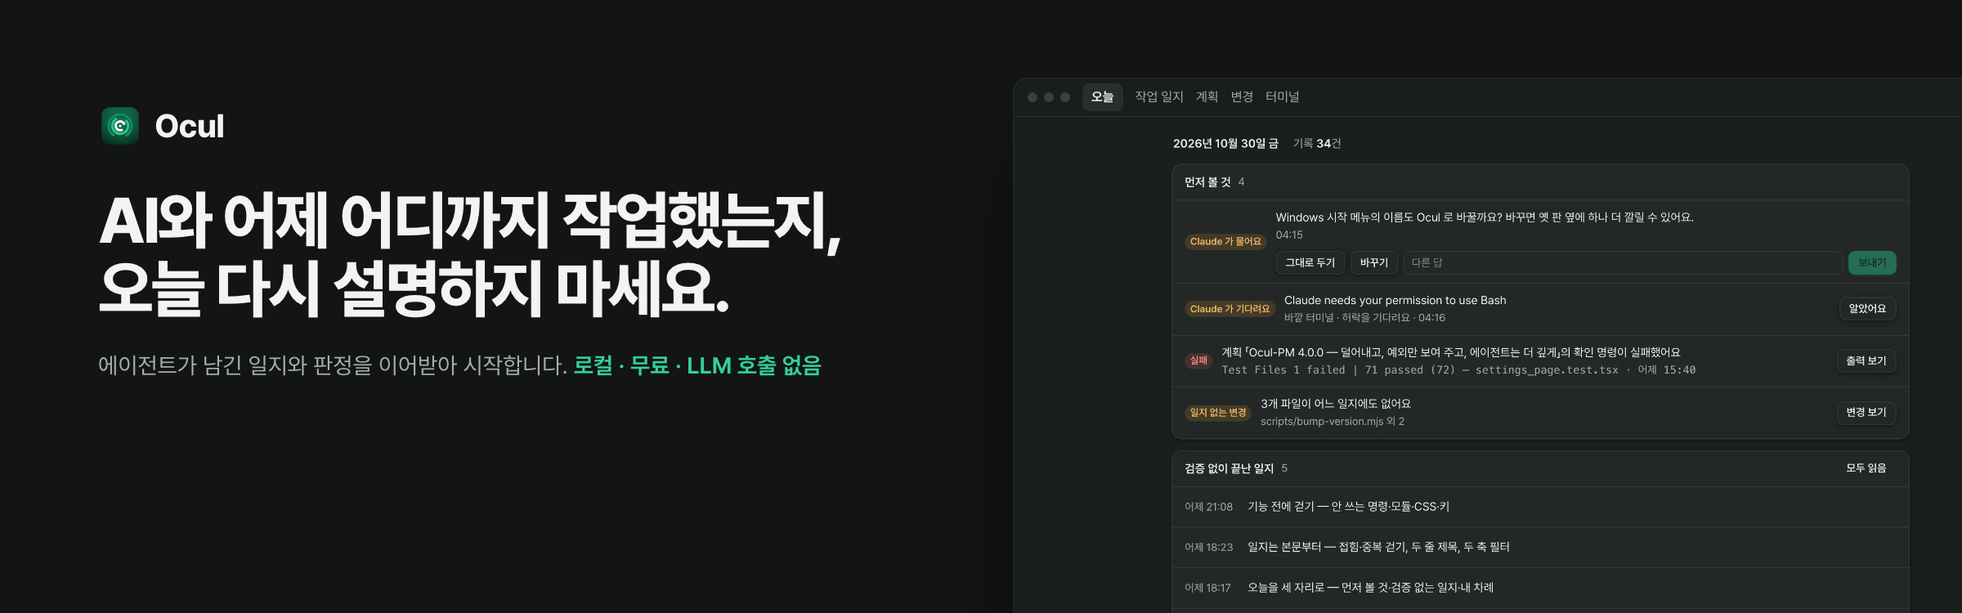
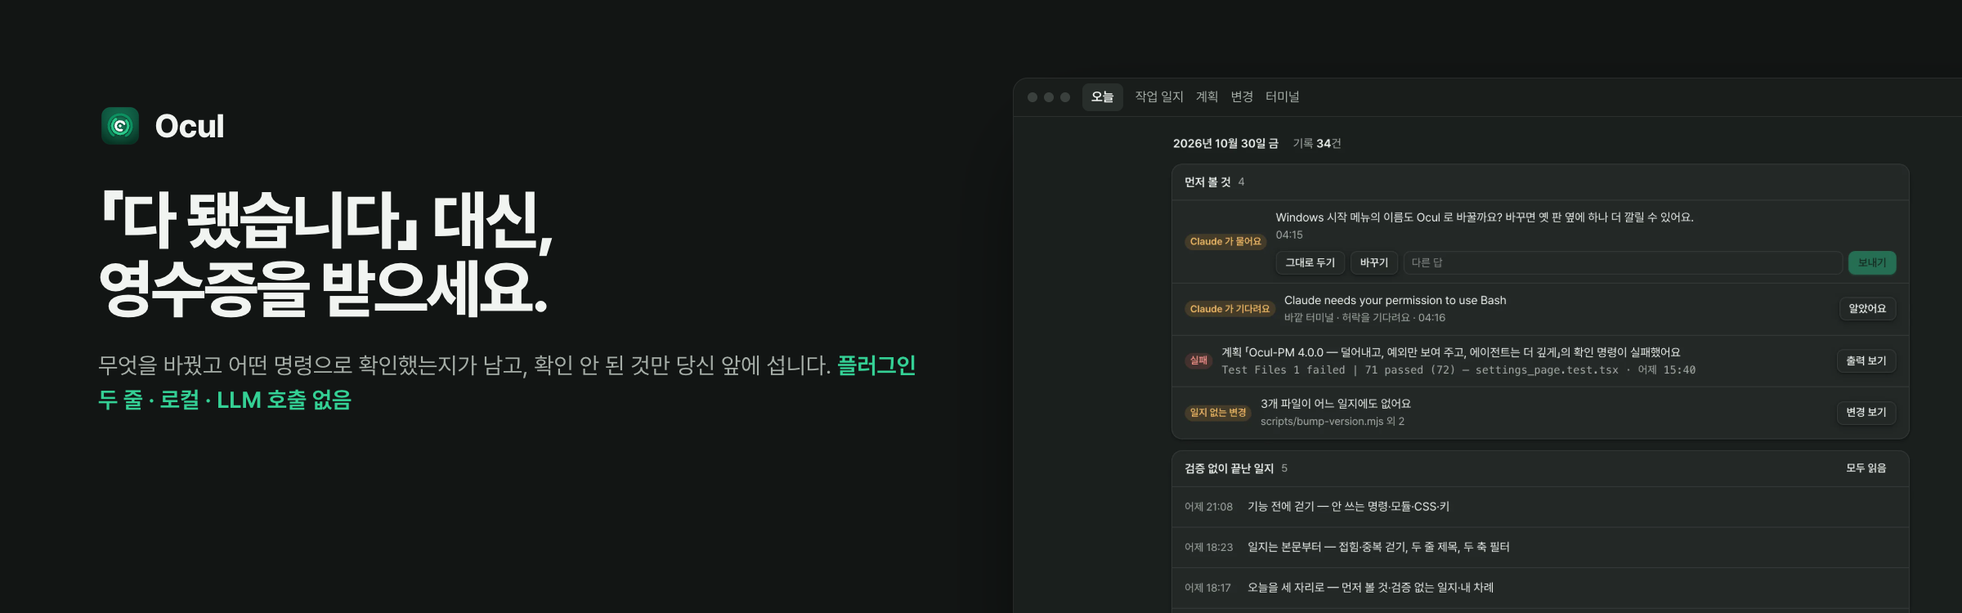
docs(landing): 첫 문장을 영수증으로, 첫 동작은 플러그인 두 줄
사용자 결정 11-02 (계획 direction-20261102): 「AI 기억」 자리를 떠나
「「다 됐습니다」 대신, 영수증을 받으세요.」 로. 히어로 · 마지막 칸의 주 동작은
플러그인 두 줄 복사, 내려받기는 보조. 배너 · og · social 이미지 다시 찍음.

Changed region(s): [[0.0312, 0.3067, 0.4375, 0.5213], [0.0312, 0.5827, 0.4688, 0.6747]]

diff --git a/landing/index.html b/landing/index.html
@@ -3,8 +3,8 @@
 <head>
 <meta charset="utf-8" />
 <meta name="viewport" content="width=device-width, initial-scale=1" />
-<title>Ocul — AI와 어제 어디까지 작업했는지, 오늘 다시 설명하지 마세요 · 코딩 에이전트용 AI PM</title>
-<meta name="description" content="AI와 어제 어디까지 작업했는지, 오늘 다시 설명하지 마세요. Claude Code 가 작업을 끝내면 Ocul(AI PM)에 일지가 남고, 다음 대화는 그 일지와 완료 조건 · 확인 명령 · 마지막 판정에서 이어서 시작합니다. 앱은 사람이 볼 것만 — 판정 실패 · 증거 없는 일지 · 기록 없는 변경 — 펼칩니다. Codex · Cursor · Gemini CLI 도 규칙 파일로 기록합니다. 앱은 LLM 을 부르지 않습니다. 로컬-우선 · 계정 없음 · 텔레메트리 없음." />
+<title>Ocul — 「다 됐습니다」 대신, 영수증을 받으세요 · 코딩 에이전트의 작업 영수증</title>
+<meta name="description" content="「다 됐습니다」 대신, 영수증을 받으세요. 코딩 에이전트(Claude Code · Codex · Cursor · Gemini CLI)가 일을 끝낼 때마다 무엇을 바꿨고 어떤 명령으로 확인했는지가 프로젝트 폴더에 마크다운 영수증으로 남습니다. Ocul 은 그중 확인 안 된 것만 펼칩니다 — 실패한 확인 명령 · 명령 증거 없는 일지 · 어느 일지에도 없는 변경. Claude Code 플러그인 두 줄로 시작하고, 화면으로 보고 싶으면 데스크톱 앱을 더합니다. 앱은 LLM 을 부르지 않고, 계정 · 서버 · 텔레메트리가 없습니다." />
 <meta name="keywords" content="AI PM, AI 프로젝트 매니저, AI project manager, ai pm tool, Ocul, Ocul-PM, 코딩 에이전트, AI 코딩 에이전트, AI coding agent, coding agent manager, Claude Code, Codex CLI, Cursor, Gemini CLI, Windsurf, GitHub Copilot, aider, Cline, Zed, Antigravity, 작업 일지, 개발 일지, dev journal, agent work log, 코드 변경 추적, 코드 변경 일지, AI 페어 프로그래밍 기록, vibe coding 관리, Claude Code 작업 기록, Cursor 변경 추적, 확인 명령, 판정, 완료 조건, Claude Code 플러그인, AI 개발 도구, 로컬 우선, local-first, macOS 개발 도구, 개발 생산성, English UI, 영어 지원" />
 <meta name="author" content="Ocul" />
 <meta name="robots" content="index, follow, max-image-preview:large, max-snippet:-1" />
@@ -20,8 +20,8 @@
 <meta property="og:locale" content="ko_KR" />
 <meta property="og:locale:alternate" content="en_US" />
 <meta property="og:url" content="https://oculpm.com/" />
-<meta property="og:title" content="Ocul — AI와 어제 어디까지 작업했는지, 오늘 다시 설명하지 마세요" />
-<meta property="og:description" content="Claude Code 가 작업을 끝내면 일지가 남고, 다음 대화는 그 일지에서 이어서 시작합니다. 사람이 볼 것만 펼치고, 판정은 확인 명령의 결과 끝 줄로. 로컬-우선 · 계정 없음 · 텔레메트리 없음." />
+<meta property="og:title" content="Ocul — 「다 됐습니다」 대신, 영수증을 받으세요" />
+<meta property="og:description" content="에이전트가 일을 끝낼 때마다 무엇을 바꿨고 어떤 명령으로 확인했는지가 남습니다. 확인 안 된 것만 당신 앞에 섭니다. 플러그인 두 줄 · 로컬 · 계정 없음." />
 <meta property="og:image" content="https://oculpm.com/og.png" />
 <meta property="og:image:width" content="1200" />
 <meta property="og:image:height" content="630" />
@@ -29,8 +29,8 @@
 
 <!-- Twitter -->
 <meta name="twitter:card" content="summary_large_image" />
-<meta name="twitter:title" content="Ocul — AI와 어제 어디까지 작업했는지, 오늘 다시 설명하지 마세요" />
-<meta name="twitter:description" content="Claude Code 가 작업을 끝내면 일지가 남고, 다음 대화는 그 일지에서 이어서 시작합니다. 로컬-우선 · macOS 네이티브." />
+<meta name="twitter:title" content="Ocul — 「다 됐습니다」 대신, 영수증을 받으세요" />
+<meta name="twitter:description" content="에이전트가 일을 끝낼 때마다 무엇을 바꿨고 어떤 명령으로 확인했는지가 남습니다. 확인 안 된 것만 당신 앞에 섭니다. 플러그인 두 줄 · 로컬 · 계정 없음." />
 <meta name="twitter:image" content="https://oculpm.com/og.png" />
 
 <link rel="icon" href="icon.svg" />
@@ -49,7 +49,7 @@
   "url": "https://oculpm.com/",
   "image": "https://oculpm.com/og.png",
   "softwareVersion": "4.3.0",
-  "description": "AI와 어제 어디까지 작업했는지, 오늘 다시 설명하지 마세요. 매일 AI 코딩 에이전트(Claude Code · Codex · Cursor · Gemini CLI 등)로 개발하는 사람을 위한 로컬-우선 AI 프로젝트 매니저 — 에이전트가 작업을 끝내면 일지가 남고, 다음 대화는 그 일지와 남은 계획을 시작 컨텍스트로 이어받습니다. 앱은 사람이 볼 것(판정 실패 · 증거 없는 일지 · 기록 없는 변경)만 펼치고, 판정은 확인 명령의 결과 끝 줄로 읽습니다. 앱은 LLM 을 부르지 않습니다. Claude Code 플러그인 두 줄 설치 지원.",
+  "description": "「다 됐습니다」 대신, 영수증을 받으세요. 코딩 에이전트(Claude Code · Codex · Cursor · Gemini CLI)가 일을 끝낼 때마다 무엇을 바꿨고 어떤 명령으로 확인했는지가 프로젝트 폴더에 마크다운 영수증으로 남습니다. Ocul 은 그중 확인 안 된 것만 펼칩니다 — 실패한 확인 명령 · 명령 증거 없는 일지 · 어느 일지에도 없는 변경. Claude Code 플러그인 두 줄로 시작하고, 화면으로 보고 싶으면 데스크톱 앱을 더합니다. 앱은 LLM 을 부르지 않고, 계정 · 서버 · 텔레메트리가 없습니다.",
   "offers": { "@type": "Offer", "price": "0", "priceCurrency": "USD" },
   "featureList": [
     "다섯 화면 — 오늘 · 작업 일지 · 계획 · 변경 · 터미널, 그리고 설정과 프로젝트가 없을 때의 시작 창. 원칙은 「예외만 보여 준다」: 화면의 크기는 에이전트가 한 양이 아니라 사람이 볼 것에 비례하고, 하루 3건이든 60건이든 모드 없이 같은 화면입니다",
@@ -237,21 +237,21 @@
     </nav>
     <span class="nav-spacer"></span>
     <a class="nav-lang" href="/en" hreflang="en">English</a>
-    <a class="btn primary nav-cta" href="https://github.com/bunhine0452/Ocul-PM/releases/latest" target="_blank" rel="noreferrer">내려받기</a>
+    <a class="btn nav-cta" href="https://github.com/bunhine0452/Ocul-PM/releases/latest" target="_blank" rel="noreferrer">내려받기</a>
   </div>
 </header>
 
 <main id="main">
 <section class="hero" aria-labelledby="hero-h">
   <div class="wrap">
-    <h1 id="hero-h">AI와 어제 어디까지 작업했는지, 오늘 다시 설명하지 마세요.</h1>
-    <p class="lede">에이전트가 일을 끝낼 때마다 <b>무엇을 했고 무엇으로 확인했는지</b>가 일지로 남고, 다음 대화는 그걸 이어받아 시작합니다. Ocul 은 그중 사람이 볼 것만 펼칩니다.</p>
+    <h1 id="hero-h">「다 됐습니다」 대신, 영수증을 받으세요.</h1>
+    <p class="lede">에이전트가 일을 끝낼 때마다 <b>무엇을 바꿨고 어떤 명령으로 확인했는지</b>가 남습니다. 확인 안 된 것만 당신 앞에 섭니다.</p>
     <div class="ctas">
-      <a class="btn primary" href="https://github.com/bunhine0452/Ocul-PM/releases/latest" target="_blank" rel="noreferrer">
+      <button class="cmd two is-primary" type="button" data-copy="/plugin marketplace add bunhine0452/Ocul-PM&#10;/plugin install oculpm@oculpm" aria-label="Claude Code 플러그인 설치 명령 두 줄 복사"><code><span>/plugin marketplace add bunhine0452/Ocul-PM</span><span>/plugin install oculpm@oculpm</span></code><span class="copy">두 줄 복사</span></button>
+      <a class="btn" href="https://github.com/bunhine0452/Ocul-PM/releases/latest" target="_blank" rel="noreferrer">
         <svg viewBox="0 0 24 24" fill="none" stroke="currentColor" stroke-width="2" stroke-linecap="round" stroke-linejoin="round" aria-hidden="true"><path d="M12 15V3"/><path d="m7 10 5 5 5-5"/><path d="M21 15v4a2 2 0 0 1-2 2H5a2 2 0 0 1-2-2v-4"/></svg>
         <span class="lg">v4.3.0 받기</span><span class="sub">macOS · 무료</span>
       </a>
-      <button class="cmd two" type="button" data-copy="/plugin marketplace add bunhine0452/Ocul-PM&#10;/plugin install oculpm@oculpm" aria-label="Claude Code 플러그인 설치 명령 두 줄 복사"><code><span>/plugin marketplace add bunhine0452/Ocul-PM</span><span>/plugin install oculpm@oculpm</span></code><span class="copy">두 줄 복사</span></button>
     </div>
     <div class="subrow">
       <p class="os" data-dl-os>Windows · Linux 는 베타
@@ -461,13 +461,13 @@ AGENTS.md     <span class="dim">에이전트가 읽는 규칙 파일 한 장</sp
 <section class="close" id="download" aria-labelledby="close-h">
   <div class="wrap">
     <h2 id="close-h">시작하는 데 필요한 것은, 없습니다.</h2>
-    <p class="intro">가입도, 설정도, 비용도 없습니다. 내려받으면 그게 전부입니다.</p>
+    <p class="intro">가입도, 설정도, 비용도 없습니다. Claude Code 에 두 줄을 붙여 넣으면 시작이고, 화면으로 보고 싶으면 앱을 내려받으세요.</p>
     <div class="ctas">
-      <a class="btn primary" href="https://github.com/bunhine0452/Ocul-PM/releases/latest" target="_blank" rel="noreferrer">
+      <button class="cmd two is-primary" type="button" data-copy="/plugin marketplace add bunhine0452/Ocul-PM&#10;/plugin install oculpm@oculpm" aria-label="Claude Code 플러그인 설치 명령 두 줄 복사"><code><span>/plugin marketplace add bunhine0452/Ocul-PM</span><span>/plugin install oculpm@oculpm</span></code><span class="copy">두 줄 복사</span></button>
+      <a class="btn" href="https://github.com/bunhine0452/Ocul-PM/releases/latest" target="_blank" rel="noreferrer">
         <svg viewBox="0 0 24 24" fill="none" stroke="currentColor" stroke-width="2" stroke-linecap="round" stroke-linejoin="round" aria-hidden="true"><path d="M12 15V3"/><path d="m7 10 5 5 5-5"/><path d="M21 15v4a2 2 0 0 1-2 2H5a2 2 0 0 1-2-2v-4"/></svg>
         <span class="lg">v4.3.0 받기</span><span class="sub">무료 · 자동 업데이트</span>
       </a>
-      <a class="btn" href="/plugin">플러그인으로 시작</a>
       <a class="btn" href="mailto:bunhine0452@gmail.com?subject=%5BOcul-PM%5D%20Enterprise%20%2F%20Partnership">기업 도입 · 제휴 문의</a>
     </div>
     <p class="os" data-dl-os>Windows · Linux 는 베타

diff --git a/landing/en/index.html b/landing/en/index.html
@@ -3,8 +3,8 @@
 <head>
 <meta charset="utf-8" />
 <meta name="viewport" content="width=device-width, initial-scale=1" />
-<title>Ocul — Stop re-explaining to your AI where you left off yesterday. · AI project manager for coding agents</title>
-<meta name="description" content="Stop re-explaining to your AI where you left off yesterday. When Claude Code finishes a unit of work, a journal entry lands in Ocul and the next conversation starts from it. The app unfolds only what a person must see — failed verdicts, entries without evidence, unrecorded changes — and reads the verdict from a check command's last line of output. Codex, Cursor and Gemini CLI record through the rules file. The app calls no LLM. Local-first · no account · no telemetry." />
+<title>Ocul — Not “all done” — a receipt. · Work receipts for coding agents</title>
+<meta name="description" content="Not “all done” — a receipt. Every time a coding agent (Claude Code, Codex, Cursor, Gemini CLI) finishes, what it changed and the command that checked it are kept in your project folder as a Markdown receipt. Ocul unfolds only what isn't proven — failed check commands, entries without command evidence, changes no entry mentions. Start with two lines of the Claude Code plugin, and add the desktop app if you want to see it on screen. The app calls no LLM, and there is no account, server or telemetry." />
 <meta name="keywords" content="AI PM, AI project manager, ai pm tool, Ocul, Ocul-PM, coding agent, AI coding agent, coding agent manager, Claude Code, Codex CLI, Cursor, Gemini CLI, Windsurf, GitHub Copilot, aider, Cline, Zed, Antigravity, dev journal, agent work log, work journal, code change tracking, AI pair programming record, vibe coding management, Claude Code work log, Cursor change tracking, check command, verdict, done condition, Claude Code plugin, AI developer tools, local-first, macOS developer tools, developer productivity" />
 <meta name="author" content="Ocul" />
 <meta name="robots" content="index, follow, max-image-preview:large, max-snippet:-1" />
@@ -20,8 +20,8 @@
 <meta property="og:locale" content="en_US" />
 <meta property="og:locale:alternate" content="ko_KR" />
 <meta property="og:url" content="https://oculpm.com/en" />
-<meta property="og:title" content="Ocul — Stop re-explaining to your AI where you left off yesterday." />
-<meta property="og:description" content="When Claude Code finishes a unit of work, a journal entry is left behind and the next conversation starts from it. Only what you must see unfolds, and the verdict is a check command's last line. Local-first · no account · no telemetry." />
+<meta property="og:title" content="Ocul — Not “all done” — a receipt." />
+<meta property="og:description" content="Every time your agent finishes, what it changed and the command that checked it are on record. Only what isn't proven comes to you. Two-line plugin · local · no account." />
 <meta property="og:image" content="https://oculpm.com/og-en.png" />
 <meta property="og:image:width" content="1200" />
 <meta property="og:image:height" content="630" />
@@ -29,8 +29,8 @@
 
 <!-- Twitter -->
 <meta name="twitter:card" content="summary_large_image" />
-<meta name="twitter:title" content="Ocul — Stop re-explaining to your AI where you left off yesterday." />
-<meta name="twitter:description" content="When Claude Code finishes a unit of work, a journal entry is left behind and the next conversation starts from it. Local-first · native macOS." />
+<meta name="twitter:title" content="Ocul — Not “all done” — a receipt." />
+<meta name="twitter:description" content="Every time your agent finishes, what it changed and the command that checked it are on record. Only what isn't proven comes to you. Two-line plugin · local · no account." />
 <meta name="twitter:image" content="https://oculpm.com/og-en.png" />
 
 <link rel="icon" href="/icon.svg" />
@@ -50,7 +50,7 @@
   "image": "https://oculpm.com/og-en.png",
   "softwareVersion": "4.3.0",
   "inLanguage": "en",
-  "description": "Stop re-explaining to your AI where you left off yesterday. A local-first AI project manager for people who build with AI coding agents (Claude Code, Codex, Cursor, Gemini CLI and friends) every day — when the agent finishes a unit of work a journal entry is left behind, and the next conversation receives those entries and the remaining plan items as its starting context. The app unfolds only what a person must see (failed verdicts · entries without evidence · unrecorded changes) and reads the verdict from a check command's last line of output. The app calls no LLM. Two-line install as a Claude Code plugin.",
+  "description": "Not “all done” — a receipt. Every time a coding agent (Claude Code, Codex, Cursor, Gemini CLI) finishes, what it changed and the command that checked it are kept in your project folder as a Markdown receipt. Ocul unfolds only what isn't proven — failed check commands, entries without command evidence, changes no entry mentions. Start with two lines of the Claude Code plugin, and add the desktop app if you want to see it on screen. The app calls no LLM, and there is no account, server or telemetry.",
   "offers": { "@type": "Offer", "price": "0", "priceCurrency": "USD" },
   "featureList": [
     "Five screens — Today · Work Journal · Plan · Diff · Terminal, plus Settings and a start window when no project is open. One principle, show only the exceptions: the screen grows with what a person must see, not with how much the agent did, so 3 entries a day or 60 use the same screen with no modes",
@@ -239,21 +239,21 @@
     </nav>
     <span class="nav-spacer"></span>
     <a class="nav-lang" href="/" hreflang="ko">한국어</a>
-    <a class="btn primary nav-cta" href="https://github.com/bunhine0452/Ocul-PM/releases/latest" target="_blank" rel="noreferrer">Download</a>
+    <a class="btn nav-cta" href="https://github.com/bunhine0452/Ocul-PM/releases/latest" target="_blank" rel="noreferrer">Download</a>
   </div>
 </header>
 
 <main id="main">
 <section class="hero" aria-labelledby="hero-h">
   <div class="wrap">
-    <h1 id="hero-h">Stop re-explaining to your AI where you left off yesterday.</h1>
-    <p class="lede">When your agent finishes, <b>what it did and how it checked</b> lands in a journal, and tomorrow's conversation starts from it.</p>
+    <h1 id="hero-h">Not “all done” — a receipt.</h1>
+    <p class="lede">Every time your agent finishes, <b>what it changed and the command that checked it</b> are on record. Only what isn't proven comes to you.</p>
     <div class="ctas">
-      <a class="btn primary" href="https://github.com/bunhine0452/Ocul-PM/releases/latest" target="_blank" rel="noreferrer">
+      <button class="cmd two is-primary" type="button" data-copy="/plugin marketplace add bunhine0452/Ocul-PM&#10;/plugin install oculpm@oculpm" aria-label="Copy the two Claude Code plugin install lines"><code><span>/plugin marketplace add bunhine0452/Ocul-PM</span><span>/plugin install oculpm@oculpm</span></code><span class="copy">Copy both</span></button>
+      <a class="btn" href="https://github.com/bunhine0452/Ocul-PM/releases/latest" target="_blank" rel="noreferrer">
         <svg viewBox="0 0 24 24" fill="none" stroke="currentColor" stroke-width="2" stroke-linecap="round" stroke-linejoin="round" aria-hidden="true"><path d="M12 15V3"/><path d="m7 10 5 5 5-5"/><path d="M21 15v4a2 2 0 0 1-2 2H5a2 2 0 0 1-2-2v-4"/></svg>
         <span class="lg">Get v4.3.0</span><span class="sub">macOS · free</span>
       </a>
-      <button class="cmd two" type="button" data-copy="/plugin marketplace add bunhine0452/Ocul-PM&#10;/plugin install oculpm@oculpm" aria-label="Copy the two Claude Code plugin install lines"><code><span>/plugin marketplace add bunhine0452/Ocul-PM</span><span>/plugin install oculpm@oculpm</span></code><span class="copy">Copy both</span></button>
     </div>
     <div class="subrow">
       <p class="os" data-dl-os>Windows and Linux are in beta
@@ -463,13 +463,13 @@ AGENTS.md     <span class="dim">the one rules file agents read</span></pre>
 <section class="close" id="download" aria-labelledby="close-h">
   <div class="wrap">
     <h2 id="close-h">Nothing is required to start.</h2>
-    <p class="intro">No sign-up, no setup, no fee. You download it, and that is the whole thing.</p>
+    <p class="intro">No sign-up, no setup, no fee. Paste two lines into Claude Code to start, and download the app if you want to see it on screen.</p>
     <div class="ctas">
-      <a class="btn primary" href="https://github.com/bunhine0452/Ocul-PM/releases/latest" target="_blank" rel="noreferrer">
+      <button class="cmd two is-primary" type="button" data-copy="/plugin marketplace add bunhine0452/Ocul-PM&#10;/plugin install oculpm@oculpm" aria-label="Copy the two Claude Code plugin install lines"><code><span>/plugin marketplace add bunhine0452/Ocul-PM</span><span>/plugin install oculpm@oculpm</span></code><span class="copy">Copy both</span></button>
+      <a class="btn" href="https://github.com/bunhine0452/Ocul-PM/releases/latest" target="_blank" rel="noreferrer">
         <svg viewBox="0 0 24 24" fill="none" stroke="currentColor" stroke-width="2" stroke-linecap="round" stroke-linejoin="round" aria-hidden="true"><path d="M12 15V3"/><path d="m7 10 5 5 5-5"/><path d="M21 15v4a2 2 0 0 1-2 2H5a2 2 0 0 1-2-2v-4"/></svg>
         <span class="lg">Get v4.3.0</span><span class="sub">free · auto-updates</span>
       </a>
-      <a class="btn" href="/en/plugin">Start with the plugin</a>
       <a class="btn" href="mailto:bunhine0452@gmail.com?subject=%5BOcul-PM%5D%20Enterprise%20%2F%20Partnership">Teams &amp; partnerships</a>
     </div>
     <p class="os" data-dl-os>Windows and Linux are in beta

diff --git a/scripts/landing-images/banner-ko.html b/scripts/landing-images/banner-ko.html
@@ -18,6 +18,6 @@ box-shadow:0 0 0 1px rgba(255,255,255,.10),0 50px 112px -37px rgba(0,0,0,.8)}
 .bar span{font-size:16px;color:#a6aea8;margin-left:7px}.bar span.on{color:#f1f4f1;font-weight:650;background:#282e2b;padding:3px 11px;border-radius:8px}
 .win img{display:block;width:100%}
 </style></head><body><div class="c">
-<div class="txt"><div class="mark"><img src="/icon.svg">Ocul</div><h1>AI와 어제 어디까지 작업했는지, 오늘 다시 설명하지 마세요.</h1><p>에이전트가 남긴 일지와 판정을 이어받아 시작합니다. <b>로컬 · 무료 · LLM 호출 없음</b></p></div>
+<div class="txt"><div class="mark"><img src="/icon.svg">Ocul</div><h1>「다 됐습니다」 대신, 영수증을 받으세요.</h1><p>무엇을 바꿨고 어떤 명령으로 확인했는지가 남고, 확인 안 된 것만 당신 앞에 섭니다. <b>플러그인 두 줄 · 로컬 · LLM 호출 없음</b></p></div>
 <div class="win"><div class="bar"><i></i><i></i><i></i><span class="on">오늘</span><span>작업 일지</span><span>계획</span><span>변경</span><span>터미널</span></div><img src="/shots/v4/ko/today.webp"></div>
 </div></body></html>

diff --git a/scripts/landing-images/og-ko.html b/scripts/landing-images/og-ko.html
@@ -18,6 +18,6 @@ box-shadow:0 0 0 1px rgba(255,255,255,.10),0 40px 90px -30px rgba(0,0,0,.8)}
 .bar span{font-size:13px;color:#a6aea8;margin-left:6px}.bar span.on{color:#f1f4f1;font-weight:650;background:#282e2b;padding:3px 9px;border-radius:7px}
 .win img{display:block;width:100%}
 </style></head><body><div class="c">
-<div class="txt"><div class="mark"><img src="/icon.svg">Ocul</div><h1>AI와 어제 어디까지 작업했는지, 오늘 다시 설명하지 마세요.</h1><p>일지와 판정을 이어받아 시작합니다.<br><b>로컬 · 무료 · LLM 호출 없음</b></p></div>
+<div class="txt"><div class="mark"><img src="/icon.svg">Ocul</div><h1>「다 됐습니다」 대신, 영수증을 받으세요.</h1><p>무엇을 바꿨고 무엇으로 확인했는지가 남습니다.<br><b>플러그인 두 줄 · 로컬 · LLM 호출 없음</b></p></div>
 <div class="win"><div class="bar"><i></i><i></i><i></i><span class="on">오늘</span><span>작업 일지</span><span>계획</span><span>변경</span><span>터미널</span></div><img src="/shots/v4/ko/today.webp"></div>
 </div></body></html>

diff --git a/scripts/landing-images/social.html b/scripts/landing-images/social.html
@@ -18,6 +18,6 @@ box-shadow:0 0 0 1px rgba(255,255,255,.10),0 40px 90px -30px rgba(0,0,0,.8)}
 .bar span{font-size:13px;color:#a6aea8;margin-left:6px}.bar span.on{color:#f1f4f1;font-weight:650;background:#282e2b;padding:3px 9px;border-radius:7px}
 .win img{display:block;width:100%}
 </style></head><body><div class="c">
-<div class="txt"><div class="mark"><img src="/icon.svg">Ocul</div><h1>AI와 어제 어디까지 작업했는지, 오늘 다시 설명하지 마세요.</h1><p>일지와 판정을 이어받아 시작합니다.<br><b>로컬 · 무료 · LLM 호출 없음</b></p></div>
+<div class="txt"><div class="mark"><img src="/icon.svg">Ocul</div><h1>「다 됐습니다」 대신, 영수증을 받으세요.</h1><p>무엇을 바꿨고 무엇으로 확인했는지가 남습니다.<br><b>플러그인 두 줄 · 로컬 · LLM 호출 없음</b></p></div>
 <div class="win"><div class="bar"><i></i><i></i><i></i><span class="on">오늘</span><span>작업 일지</span><span>계획</span><span>변경</span><span>터미널</span></div><img src="/shots/v4/ko/today.webp"></div>
 </div></body></html>

diff --git a/scripts/landing-images/banner-en.html b/scripts/landing-images/banner-en.html
@@ -18,6 +18,6 @@ box-shadow:0 0 0 1px rgba(255,255,255,.10),0 50px 112px -37px rgba(0,0,0,.8)}
 .bar span{font-size:16px;color:#a6aea8;margin-left:7px}.bar span.on{color:#f1f4f1;font-weight:650;background:#282e2b;padding:3px 11px;border-radius:8px}
 .win img{display:block;width:100%}
 </style></head><body><div class="c">
-<div class="txt"><div class="mark"><img src="/icon.svg">Ocul</div><h1>Stop re-explaining to your AI where you left off yesterday.</h1><p>The next conversation starts from the agent's journal and verdicts. <b>Local · free · no LLM calls</b></p></div>
+<div class="txt"><div class="mark"><img src="/icon.svg">Ocul</div><h1>Not “all done” — a receipt.</h1><p>What your agent changed and the command that checked it stay on record; only what isn't proven comes to you. <b>Two-line plugin · local · no LLM calls</b></p></div>
 <div class="win"><div class="bar"><i></i><i></i><i></i><span class="on">Today</span><span>Work Journal</span><span>Plan</span><span>Diff</span><span>Terminal</span></div><img src="/shots/v4/en/today.webp"></div>
 </div></body></html>

diff --git a/scripts/landing-images/og-en.html b/scripts/landing-images/og-en.html
@@ -18,6 +18,6 @@ box-shadow:0 0 0 1px rgba(255,255,255,.10),0 40px 90px -30px rgba(0,0,0,.8)}
 .bar span{font-size:13px;color:#a6aea8;margin-left:6px}.bar span.on{color:#f1f4f1;font-weight:650;background:#282e2b;padding:3px 9px;border-radius:7px}
 .win img{display:block;width:100%}
 </style></head><body><div class="c">
-<div class="txt"><div class="mark"><img src="/icon.svg">Ocul</div><h1>Stop re-explaining to your AI where you left off yesterday.</h1><p>The next session starts from the journal.<br><b>Local · free · no LLM calls</b></p></div>
+<div class="txt"><div class="mark"><img src="/icon.svg">Ocul</div><h1>Not “all done” — a receipt.</h1><p>What it changed and how it was checked, on record.<br><b>Two-line plugin · local · no LLM calls</b></p></div>
 <div class="win"><div class="bar"><i></i><i></i><i></i><span class="on">Today</span><span>Work Journal</span><span>Plan</span><span>Diff</span><span>Terminal</span></div><img src="/shots/v4/en/today.webp"></div>
 </div></body></html>

diff --git a/landing/home.css b/landing/home.css
@@ -110,6 +110,11 @@ html { scrollbar-color: #3a423e var(--ground); }
 .cmd.two code::before { content: none; }
 .cmd.two code span { overflow: hidden; text-overflow: ellipsis; white-space: nowrap; }
 .cmd.two code span::before { content: "$ "; color: var(--ink-2); }
+/* 첫 행동은 플러그인 두 줄 (11-02 결정) — 주 동작이라 테두리와 「복사」 표만 초록. 칸 자체는 명령 상자 그대로. */
+.cmd.is-primary { border-color: var(--accent); }
+.cmd.is-primary .copy { background: var(--accent); color: var(--on-accent); }
+.cmd.is-primary:hover .copy { background: var(--accent-strong); }
+.cmd.is-primary[data-copied] .copy { background: var(--accent-soft); color: var(--accent-text); }
 
 /* ── 윗줄 ─────────────────────────────────────────── */
 .nav { position: sticky; top: 0; z-index: 20; background: var(--ground); border-bottom: 1px solid var(--sep); }

diff --git a/README.md b/README.md
@@ -1,15 +1,15 @@
 <div align="center">
 
-<img src="landing/banner.png" alt="Ocul: AI와 어제 어디까지 작업했는지, 오늘 다시 설명하지 마세요. 오른쪽에 4.1 앱의 오늘 화면." width="100%" />
+<img src="landing/banner.png" alt="Ocul: 「다 됐습니다」 대신, 영수증을 받으세요. 오른쪽에 4.1 앱의 오늘 화면." width="100%" />
 
 <img src="landing/demo.gif" alt="Ocul 4.1 데모: 오늘 화면에서 Claude 의 질문에 답하면 터미널의 Claude 가 그 답을 받아 일지와 판정을 남기고, 작업 일지 · 계획 · 변경 화면이 이어진다" width="100%" />
 
 <sub>실제 4.1 화면입니다. 이 저장소의 일지로 채웠고, Claude 의 질문 한 줄만 데모입니다. 여러분의 터미널에서 돌려도 같은 기록이 남습니다.</sub>
 
-<h3>AI와 어제 어디까지 작업했는지, 오늘 다시 설명하지 마세요.</h3>
+<h3>「다 됐습니다」 대신, 영수증을 받으세요.</h3>
 
-<p>에이전트가 한 일을 사람이 <b>3분 안에 믿고, 다음을 결정</b>하게 하고, 에이전트는 어떤 일이든 <b>판정부터 깔고</b> 시작하게 합니다. 일지·diff·계획이 그 증거이고, 판정은 에이전트의 말이 아니라 확인 명령의 결과 끝 줄입니다.<br/>
-Claude Code · Codex · Cursor · Gemini CLI 와 함께 쓰는 로컬-우선 프로젝트 매니저 — 서버도 계정도 없고, 앱은 LLM 을 부르지 않습니다.</p>
+<p>코딩 에이전트가 일을 끝낼 때마다 <b>무엇을 바꿨고 어떤 명령으로 확인했는지</b>가 프로젝트 폴더에 마크다운으로 남습니다. Ocul 은 그중 <b>확인 안 된 것만</b> 당신 앞에 세웁니다 — 실패한 확인 명령, 명령 증거 없는 일지, 어느 일지에도 없는 변경.<br/>
+Claude Code 플러그인 두 줄로 시작하고, 화면으로 보고 싶으면 데스크톱 앱을 더합니다. Codex · Cursor · Gemini CLI 도 규칙 파일 한 장으로 기록합니다. 서버도 계정도 없고, 앱은 LLM 을 부르지 않습니다.</p>
 
 [![CI](https://github.com/bunhine0452/Ocul-PM/actions/workflows/ci.yml/badge.svg?branch=main)](https://github.com/bunhine0452/Ocul-PM/actions/workflows/ci.yml)
 [![Latest release](https://badgen.net/github/tag/bunhine0452/Ocul-PM?icon=github&label=download&color=12a06b)](https://github.com/bunhine0452/Ocul-PM/releases/latest)
@@ -31,9 +31,16 @@ Claude Code · Codex · Cursor · Gemini CLI 와 함께 쓰는 로컬-우선 프
 
 ---
 
-매일 AI 로 개발하면 아침마다 같은 일을 합니다. 새 대화를 열고, 어제 어디까지 했는지, 왜 그 파일을 건드렸는지, 무엇이 남았는지를 처음부터 다시 설명하는 일입니다. 대화가 끝나면 맥락도 같이 끝나기 때문입니다 — 코드는 남는데 맥락은 남지 않습니다.
+에이전트는 일을 끝내면 「다 됐습니다」라고 말합니다. 테스트가 정말 통과했는지, 어떤 파일을 왜 바꿨는지, 빠뜨린 것은 없는지는 그 말 안에 없습니다. 확인하려면 diff 와 로그를 처음부터 다시 읽어야 하고, 다음 날 새 대화에는 그 맥락마저 없습니다.
 
-Ocul 은 그 설명을 없앱니다. 프로젝트 폴더에 규칙 파일(`AGENTS.md`) 하나를 심으면 에이전트는 작업 하나를 끝낼 때마다 `.oculpm/journal/` 에 마크다운 일지를 남기고, 다음 대화는 그 일지와 남은 계획 — 완료 조건 · 확인 명령 · 마지막 판정 — 을 시작 컨텍스트로 받아 이어서 합니다. 앱은 그 기록에서 **사람이 볼 것만** 펼칩니다: 판정 실패, 명령 증거 없는 일지, 어느 일지에도 없는 변경, 막힌 항목, 사람 몫 결정. 증거가 선 일은 한 줄로 접힙니다. 원본이 전부 마크다운 파일이라 코드와 함께 커밋할 수 있고, 앱이 없어도 그냥 읽힙니다.
+```text
+/plugin marketplace add bunhine0452/Ocul-PM
+/plugin install oculpm@oculpm
+```
+
+Claude Code 에 이 두 줄이면 시작입니다(앱 없이). 기록을 화면으로 보고 싶으면 [앱을 내려받으세요](https://github.com/bunhine0452/Ocul-PM/releases/latest) — macOS, Windows · Linux 베타.
+
+Ocul 은 그 말 대신 영수증을 남깁니다. 프로젝트 폴더에 규칙 파일(`AGENTS.md`) 하나를 심으면 에이전트는 작업 하나를 끝낼 때마다 `.oculpm/journal/` 에 마크다운 일지를 남기고, 다음 대화는 그 일지와 남은 계획 — 완료 조건 · 확인 명령 · 마지막 판정 — 을 시작 컨텍스트로 받아 이어서 합니다. 앱은 그 기록에서 **사람이 볼 것만** 펼칩니다: 판정 실패, 명령 증거 없는 일지, 어느 일지에도 없는 변경, 막힌 항목, 사람 몫 결정. 증거가 선 일은 한 줄로 접힙니다. 원본이 전부 마크다운 파일이라 코드와 함께 커밋할 수 있고, 앱이 없어도 그냥 읽힙니다.
 
 서버는 없습니다. 데이터는 프로젝트의 `.oculpm/` 폴더와 로컬 SQLite 캐시에만 있고, **앱은 LLM 을 부르지 않으며 화면(웹뷰)은 바깥 호스트에 닿지 않습니다.** 기기를 떠나는 것은 여러분이 시작한 것뿐입니다 — 새 버전 확인과, 여러분이 누른 링크(OS 브라우저가 엽니다). 세어 볼 수 있는 전체 목록은 [oculpm.com/privacy](https://oculpm.com/privacy) 에 있고, 그 목록은 빌드가 지킵니다(`src-tauri/tests/egress_inventory.rs`).
 

diff --git a/.oculpm/journal/20261102/Chores/1902_chore_receipt-positioning-plugin-entry.md b/.oculpm/journal/20261102/Chores/1902_chore_receipt-positioning-plugin-entry.md
@@ -1,0 +1,75 @@
+---
+schema_version: 1
+type: chore
+slug: "receipt-positioning-plugin-entry"
+status: done
+difficulty: medium
+created_at: "2026-11-02T19:02:56+09:00"
+session_id: "20261102-001"
+agent:
+  id: "claude-code"
+  version: "Opus 5.5"
+  session: "f482aad9-ea44-4824-af3f-378db8a5a057"
+language: "ko"
+verified_by_user: false
+files_touched:
+  - path: "landing/index.html"
+    op: update
+  - path: "landing/en/index.html"
+    op: update
+  - path: "landing/home.css"
+    op: update
+  - path: "README.md"
+    op: update
+  - path: "README.en.md"
+    op: update
+  - path: "landing/banner.png"
+    op: update
+  - path: "landing/banner-en.png"
+    op: update
+  - path: "landing/og.png"
+    op: update
+  - path: "landing/og-en.png"
+    op: update
+  - path: "landing/social-preview.png"
+    op: update
+  - path: "scripts/landing-images/banner-ko.html"
+    op: update
+  - path: "scripts/landing-images/banner-en.html"
+    op: update
+  - path: "scripts/landing-images/og-ko.html"
+    op: update
+  - path: "scripts/landing-images/og-en.html"
+    op: update
+  - path: "scripts/landing-images/social.html"
+    op: update
+  - path: ".impeccable/surfaces/landing-index-html.md"
+    op: update
+  - path: "DESIGN.md"
+    op: update
+related: []
+tags:
+  - "랜딩"
+  - "landing"
+  - "readme"
+  - "positioning"
+  - "mcp-tool"
+---
+[x] 랜딩: 첫 문장을 영수증으로, 입구는 플러그인
+
+## 무엇을 했나
+외부 평가 뒤 사용자가 고른 결정 둘(계획 `direction-20261102` 의 `#position` · `#entry-plugin`)을 바깥 면에 옮겼다.
+- **첫 문장**: 「AI와 어제 어디까지 작업했는지, 오늘 다시 설명하지 마세요」(claude-mem 의 「기억」 자리)를 「「다 됐습니다」 대신, 영수증을 받으세요.」 / 「Not "all done" — a receipt.」로 바꿨다. 사용자가 세 안 중 골랐다.
+  - 바꾼 곳: 랜딩 ko/en 의 title · meta description · og · twitter · JSON-LD description · h1 · lede, README ko/en 의 머리 h3 · 소개 문단 · 배너 alt.
+- **입구**: 히어로와 마지막 칸의 주 동작을 플러그인 두 줄 복사(`.cmd.is-primary`: 초록 테 · 초록 「복사」 표)로 바꿨다. 내려받기는 보조 버튼으로, 윗줄 「내려받기」도 보조로 내렸다. 한 화면에 초록 채움은 하나라는 규칙 그대로다.
+  - README 소개 바로 아래에 플러그인 두 줄 블록과 「화면으로 보고 싶으면 앱」 한 줄을 넣었다.
+- **이미지**: `scripts/landing-images/*.html` 원본의 헤드라인을 고쳐 다시 찍었다. 배너 ko/en 2400×750, og ko/en 1200×630, social 1280×640.
+- **설계 기록**: 랜딩 surface brief 의 Action · FIRST VIEWPORT, DESIGN.md 의 Primary · Command copy 를 새 주 동작에 맞췄다.
+
+## 검증
+- 로컬 정적 서버 + CDP 로 랜딩 ko(1440) · en(1440) · ko 휴대폰(390)을 찍었다.
+  - 가로 넘침 0, 오류 0. 히어로 CTA 순서는 `cmd two is-primary` → `btn` 이다.
+  - JSON-LD 두 블록 모두 `json.loads` 를 통과했다.
+- 배너 · og 이미지를 눈으로 확인했다(크기 2400×750 · 1200×630).
+- `pnpm test`: 1000 passed. `pnpm lint` 0.
+- 남은 것: GitHub 저장소 설정의 소셜 미리보기 이미지(social-preview.png)는 손으로 올려야 한다. 바깥 문구의 「판정」 같은 내부 용어 걷기(`#jargon`)는 머리말만 했다.
